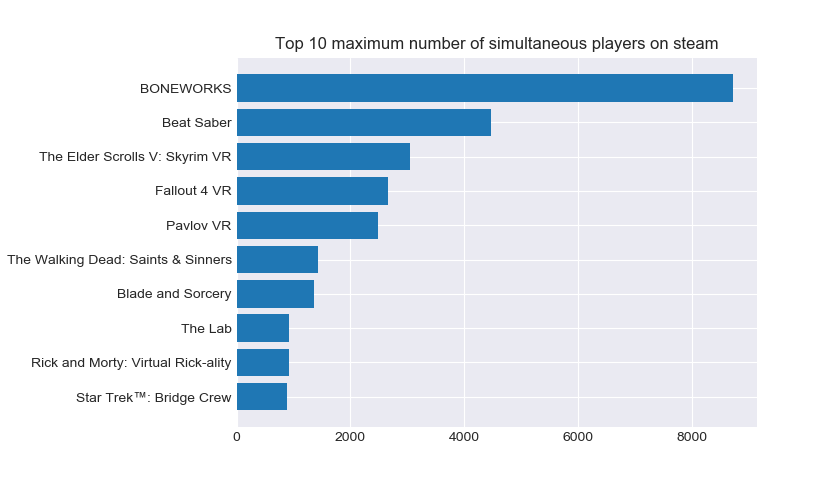
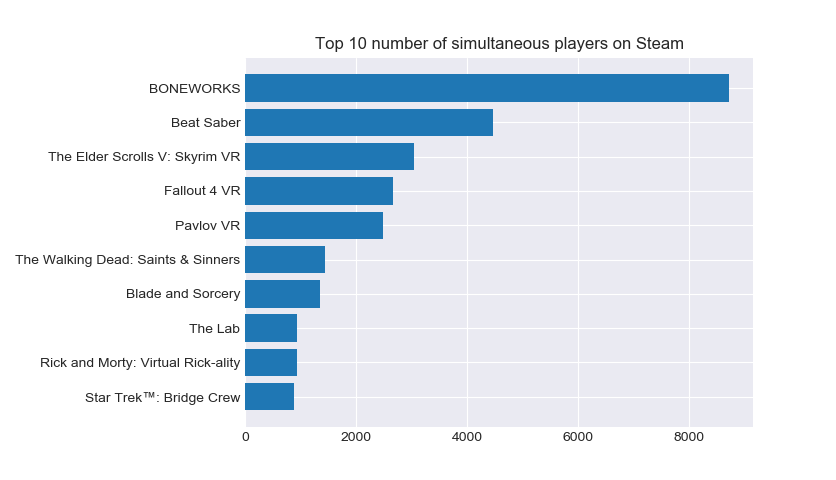
update

diff --git a/create_charts.py b/create_charts.py
@@ -34,7 +34,7 @@ def bar_diagram(data):
     ax.set_yticklabels(top10games)
     ax.invert_yaxis()  # labels von oben nach unten
     # ax.set_xlabel('')
-    ax.set_title('Top 10 maximum number of simultaneous players on steam')
+    ax.set_title('Top 10 number of simultaneous players on Steam')
     plt.grid(True)
 
 
@@ -43,16 +43,9 @@ def main():
     sqlite_query.create_database(conn)
     style.use('seaborn-dark')
     data = sqlite_query.peak_players_online(conn)
-    plt.figure(1)
     graph_data(data)
     data = sqlite_query.top10(conn)
-    print(data)
     bar_diagram(data)
-    # top5 = [620980, 555160, 823500, 629730, 471710]
-    # plt.figure(2)
-    # for item in top5:
-    #     data = sqlite_query.peak_players_appid(conn, item)
-    #     graph_data(data, "TupPeak number of players on Steam (VR games only)")
     plt.show()
 
 
